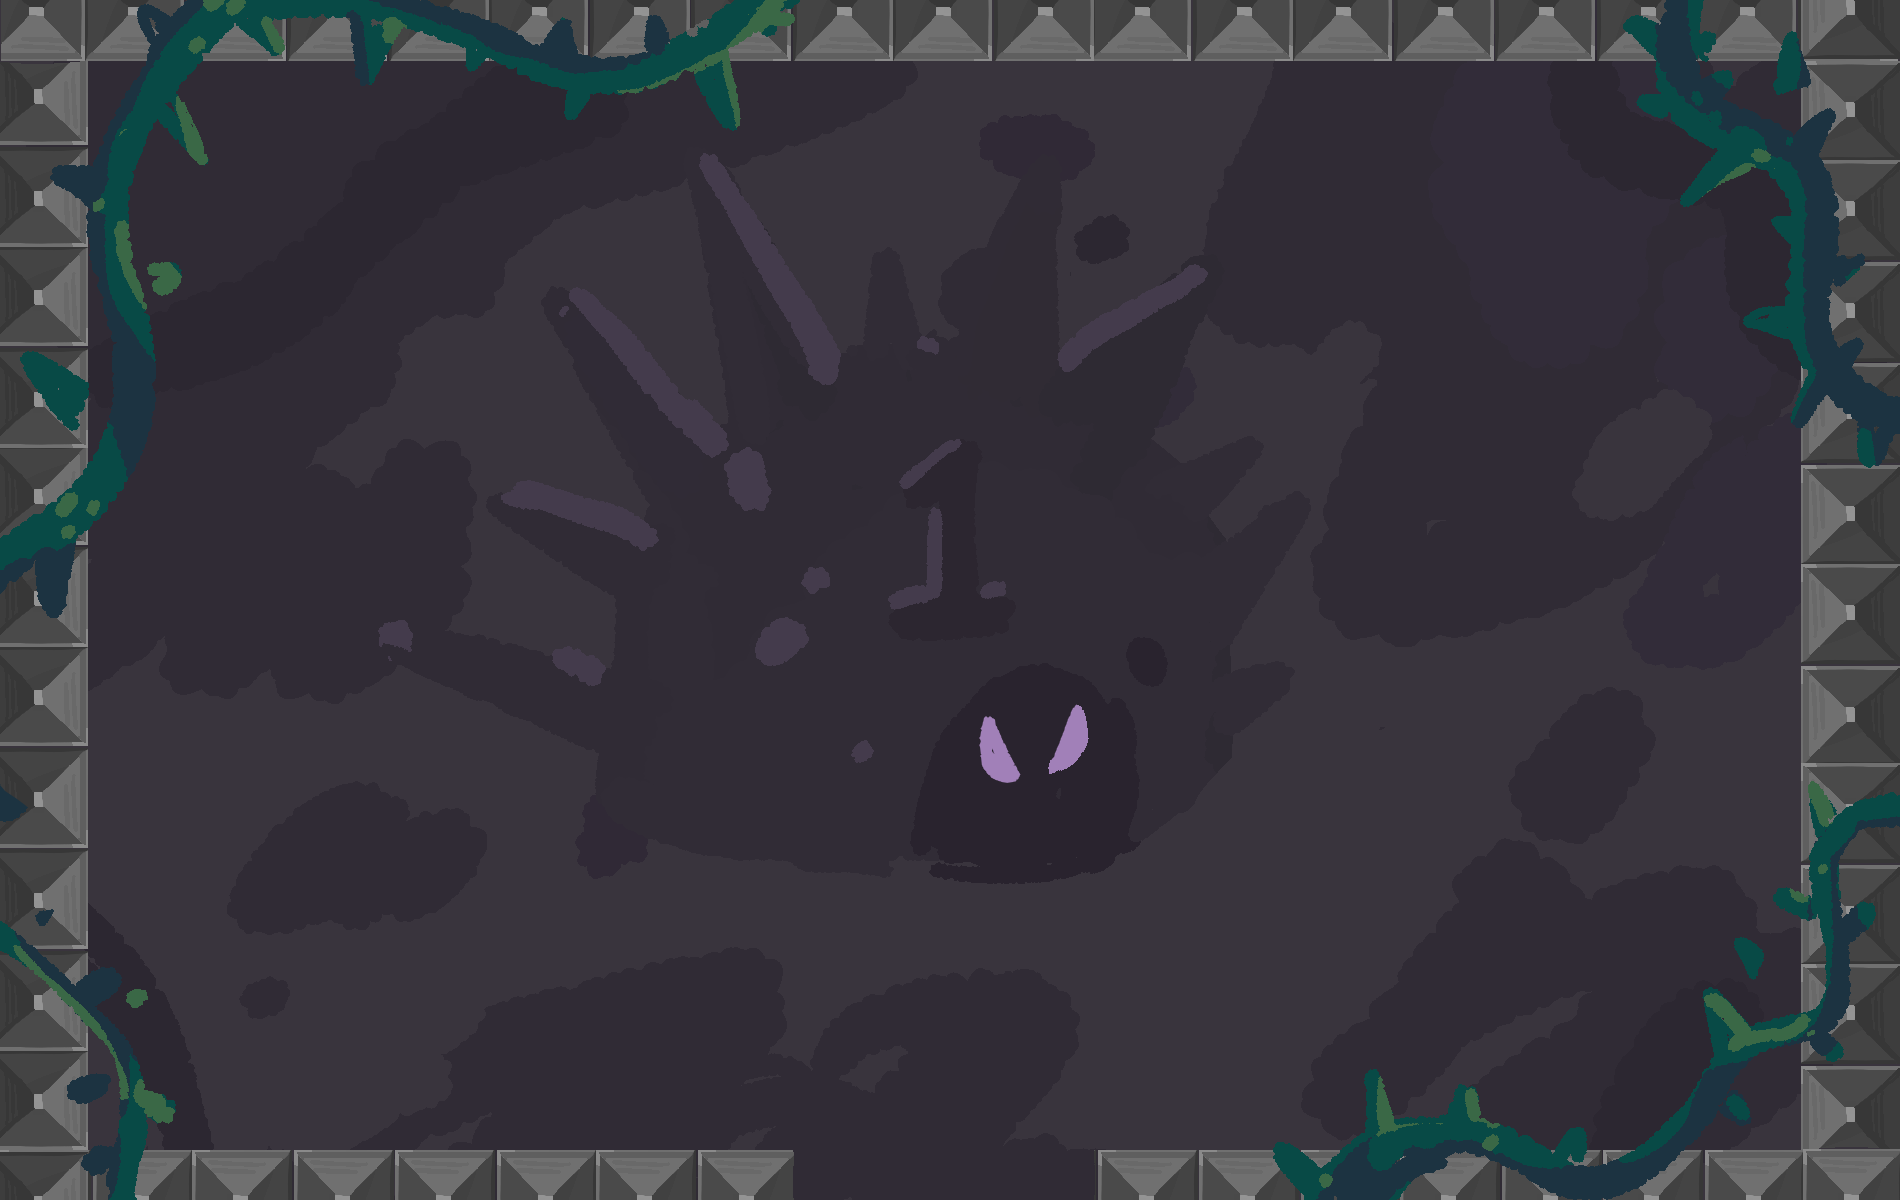
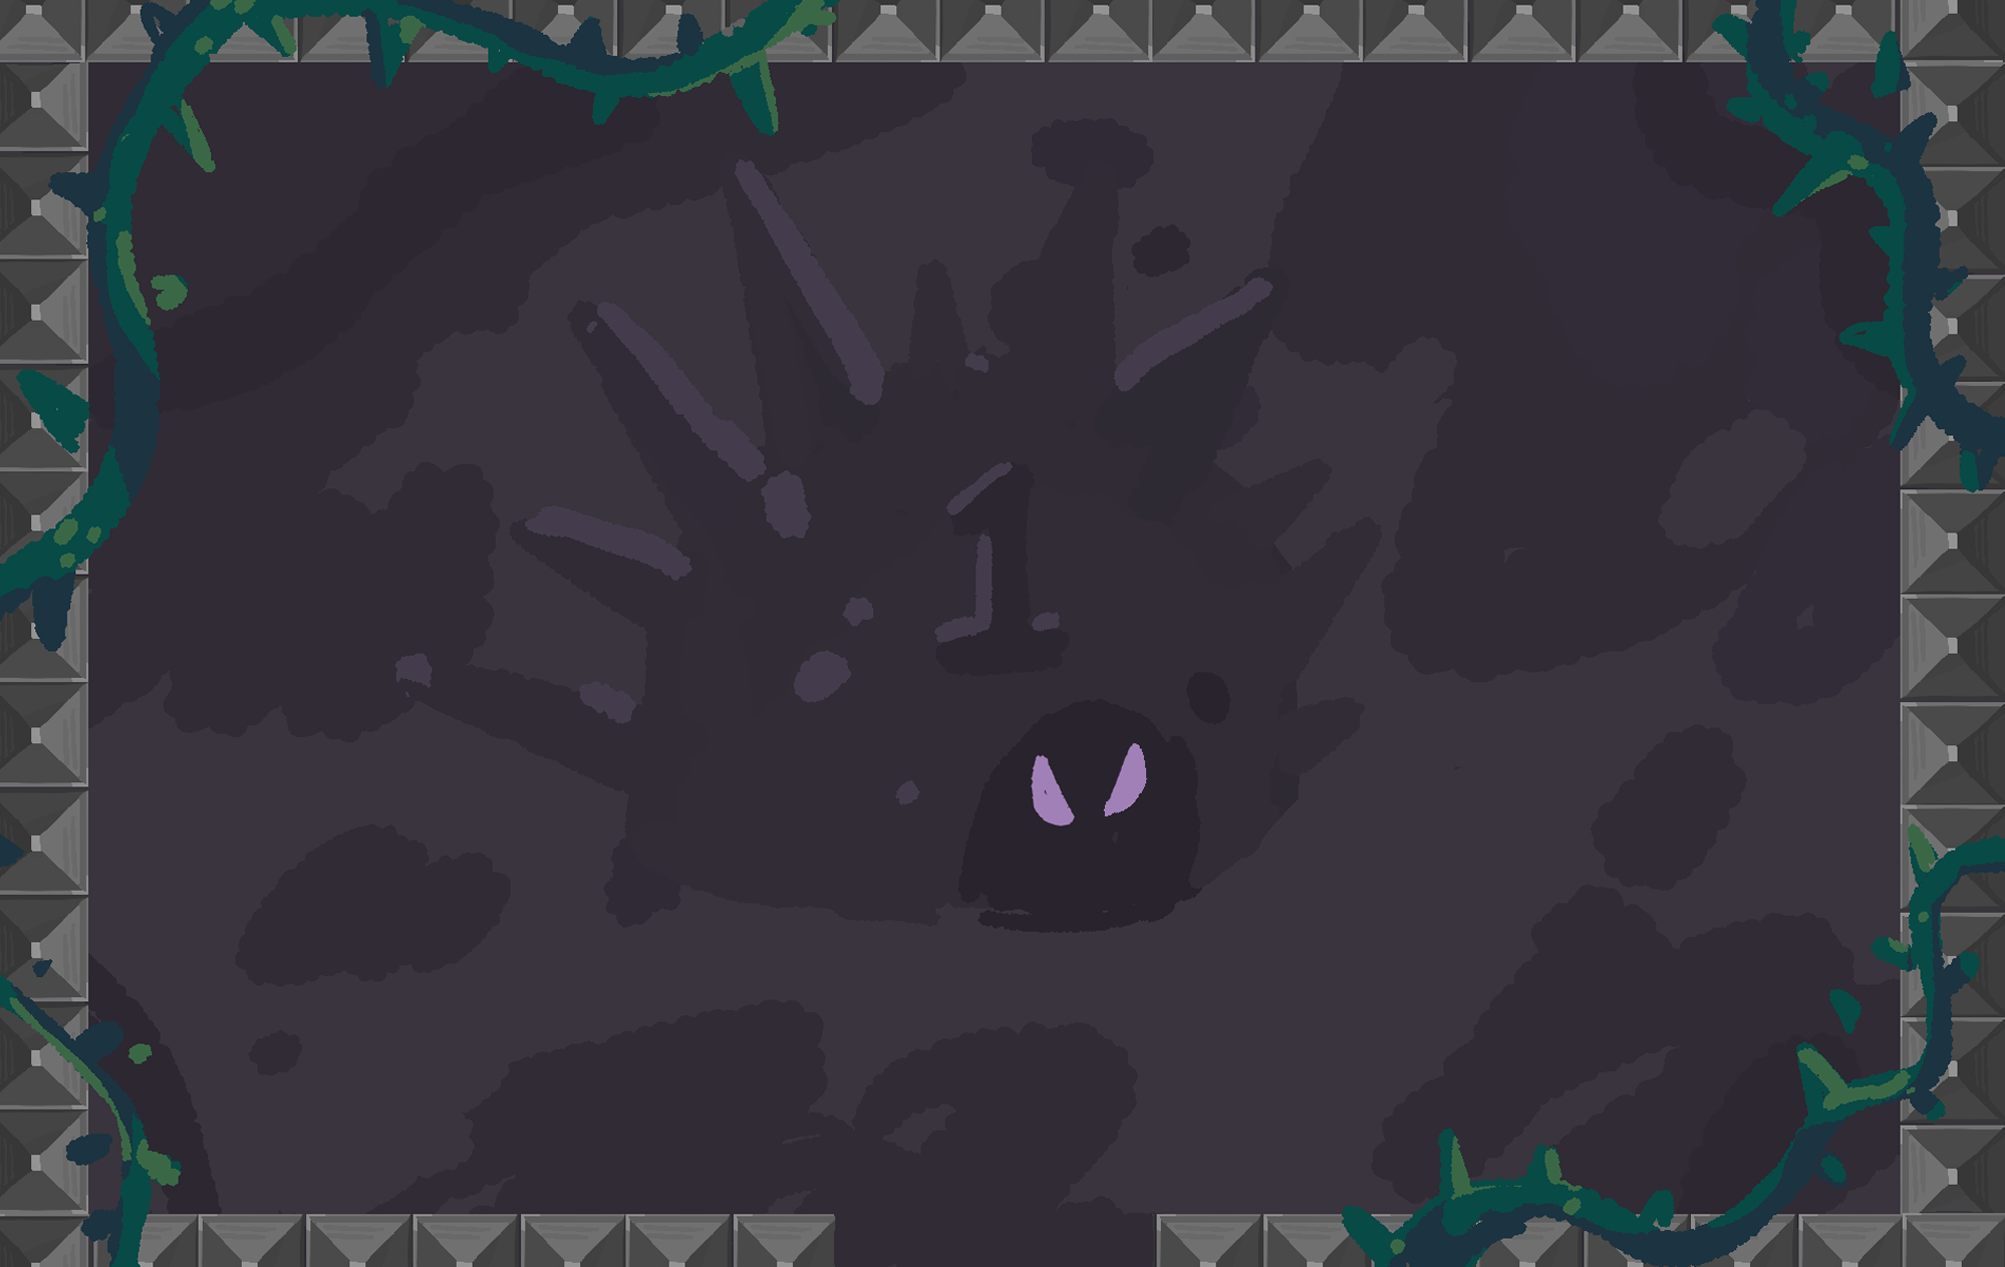
edit boundary and fixed bug

diff --git a/src/game.py b/src/game.py
@@ -63,7 +63,7 @@ class Game:
         self.map_changex = 0
         self.map_changey = 0
 
-        self.create_brick()
+        # self.create_brick()
 
 
     '''bonus 函數區'''
@@ -122,31 +122,31 @@ class Game:
     '''bonus 函數區結束'''
 
 
-    def create_brick(self):
-        # 製造周圍 Brick
-        for i in range(0, const.screen_width // 10):
-            up = 0
-            thebrick = brick((0, 0, 0), i * 10 + 1, up * 10 + 1)
-            self.bricksprite.add(thebrick)
-            self.allsprite.add(thebrick) 
+    # def create_brick(self):
+    #     # 製造周圍 Brick
+    #     for i in range(0, const.screen_width // 10):
+    #         up = 0
+    #         thebrick = brick((0, 0, 0), i * 10 + 1, up * 10 + 1)
+    #         self.bricksprite.add(thebrick)
+    #         self.allsprite.add(thebrick) 
 
-        for i in range(0, const.screen_width // 10):
-            down = const.screen_height // 10 - 1
-            thebrick = brick((0, 0, 0),i * 10 + 1, down * 10 + 1)
-            self.bricksprite.add(thebrick)
-            self.allsprite.add(thebrick)
+    #     for i in range(0, const.screen_width // 10):
+    #         down = const.screen_height // 10 - 1
+    #         thebrick = brick((0, 0, 0),i * 10 + 1, down * 10 + 1)
+    #         self.bricksprite.add(thebrick)
+    #         self.allsprite.add(thebrick)
 
-        for j in range(0, const.screen_height // 10):
-            left = 0
-            thebrick = brick((0, 0, 0), left * 10 + 1, j * 10 + 1)
-            self.bricksprite.add(thebrick)
-            self.allsprite.add(thebrick)
+    #     for j in range(0, const.screen_height // 10):
+    #         left = 0
+    #         thebrick = brick((0, 0, 0), left * 10 + 1, j * 10 + 1)
+    #         self.bricksprite.add(thebrick)
+    #         self.allsprite.add(thebrick)
 
-        for j in range(0, const.screen_height // 10):
-            right = const.screen_width // 10 - 1
-            thebrick = brick((0, 0, 0), right * 10 + 1, j * 10 + 1)
-            self.bricksprite.add(thebrick)
-            self.allsprite.add(thebrick)
+    #     for j in range(0, const.screen_height // 10):
+    #         right = const.screen_width // 10 - 1
+    #         thebrick = brick((0, 0, 0), right * 10 + 1, j * 10 + 1)
+    #         self.bricksprite.add(thebrick)
+    #         self.allsprite.add(thebrick)
         
         
     # 退出遊戲
@@ -201,7 +201,7 @@ class Game:
                 self.bulletsprite.update() # 刷新新的bulletgroup
 
                 # self.bulletsprite.draw(self.renderer.screen)  # 畫到螢幕上
-                hitbrick = pygame.sprite.groupcollide(self.bricksprite, self.bulletsprite, False, True) # 改動TRUE，FALSE就可
+                hitbrick = pygame.sprite.groupcollide(boundary.group, self.bulletsprite, False, True) # 改動TRUE，FALSE就可
                 
                 for sprite in self.bulletsprite.sprites():
                     self.renderer.screen.blit(sprite.image, (sprite.x+const.map_x, sprite.y+const.map_y))
@@ -212,9 +212,13 @@ class Game:
                 self.tick += 1
 
                 # 畫出不能走的區域方便觀察，這段之後可以註解掉
-                self.renderer.draw_block(boundary.block_1)
-                self.renderer.draw_block(boundary.block_2)
-                self.renderer.draw_block(boundary.block_3)
+                # self.renderer.draw_block(boundary.block_up)
+                # self.renderer.draw_block(boundary.block_down)
+                # self.renderer.draw_block(boundary.block_left)
+                # self.renderer.draw_block(boundary.block_right)
+                # self.renderer.draw_block(boundary.block_left_and_down)
+                # self.renderer.draw_block(boundary.block_right_and_down)
+
 
                 '''bonus 事件區'''
                 # 出現隨機事件
@@ -230,7 +234,6 @@ class Game:
 
 
                 self.renderer.draw_score(str(self.character.score))
-                # self.renderer.draw_score(str(120))
 
 
 

diff --git a/src/area_setting.py b/src/area_setting.py
@@ -6,18 +6,22 @@ from block import Block
 '''
 
 # 上方邊界
-block_1 = Block(0, 0 ,1900, 5)
+block_up = Block(0, 61 ,2000, 1)
 
 # 下方邊界
-block_2 = Block(0, 1220, 1900, 5)
-
-# 右方邊界
-block_3 = Block(1900, 0, 5, 1200)
+block_down = Block(0, 1268, 2000, 1)
 
 # 左方邊界
-# block_4 = Block(1900, 0, 5, 1200)
+block_left = Block(86, 0, 1, 1300)
+
+# 右方邊界
+block_right = Block(1899, 0, 1, 1300)
+
+block_left_and_down = Block(0, 1213, 832, 54)
+block_right_and_down = Block(1156, 1213, 832, 54)
+
 
 
 # 建立群組，並把所有的邊界加入群組
 group = pygame.sprite.Group()
-group.add(block_1, block_2, block_3)
+group.add(block_up, block_down, block_left, block_right, block_left_and_down, block_right_and_down)

diff --git a/src/const.py b/src/const.py
@@ -51,19 +51,14 @@ pauseButton = {
 map_x = 0
 map_y = 0
 
-#
-now_x = 0
-now_y = 0
-
-
 
 # 分數顯示位置
 score_loc = [(1300,80), (1250,80), (1200,80)]
 
 ###########################################################
 # 設定主角初始位置
-role_x = screen_width * 0.45
-role_y = screen_height * 0.8
+now_x = screen_width * 0.45
+now_y = screen_height * 0.8
 
 # 設定主角走動量初始值
 x_change = 0 

diff --git a/src/character.py b/src/character.py
@@ -9,6 +9,8 @@ class Character(pygame.sprite.Sprite):
         self.set_properties()
 
         self.rect = self.image.get_rect()
+        self.rect.x = 500
+        self.rect.y = 500
 
         # 設定人物的起始血量
         self.hp = hp
